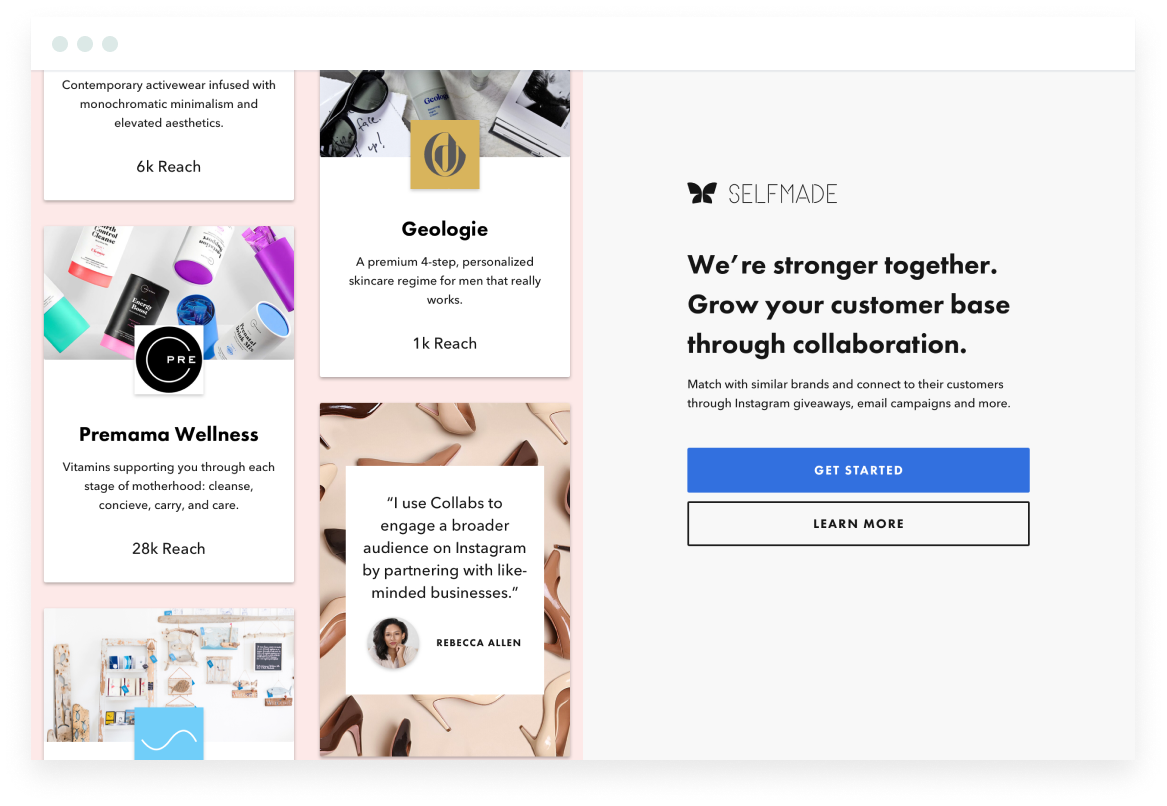
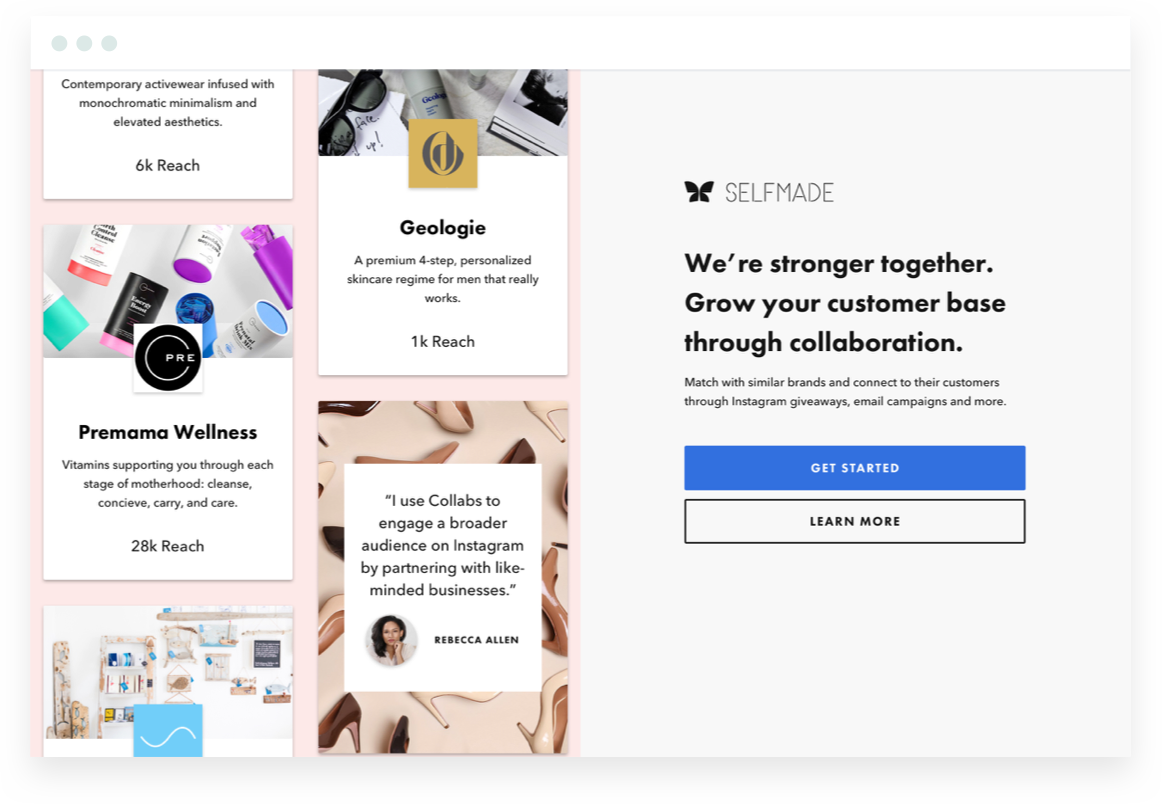
added 1x and 2x imgaes for second image on collabs page

diff --git a/pages/collabs.js b/pages/collabs.js
@@ -13,7 +13,12 @@ export default function Collabs() {
         img="/img/Collabs-1.png"
       />
 
-      <Feat img="/img/Collabs-2.png" />
+      <div className="project-feat">
+        <img
+          srcSet="img/Collabs-2.png, img/Collabs-2@2x.png 2x"
+          src="img/Collabs-2@2x.png"
+          alt="Collabs landing page" />
+      </div>
 
       <Details>
         <div>
